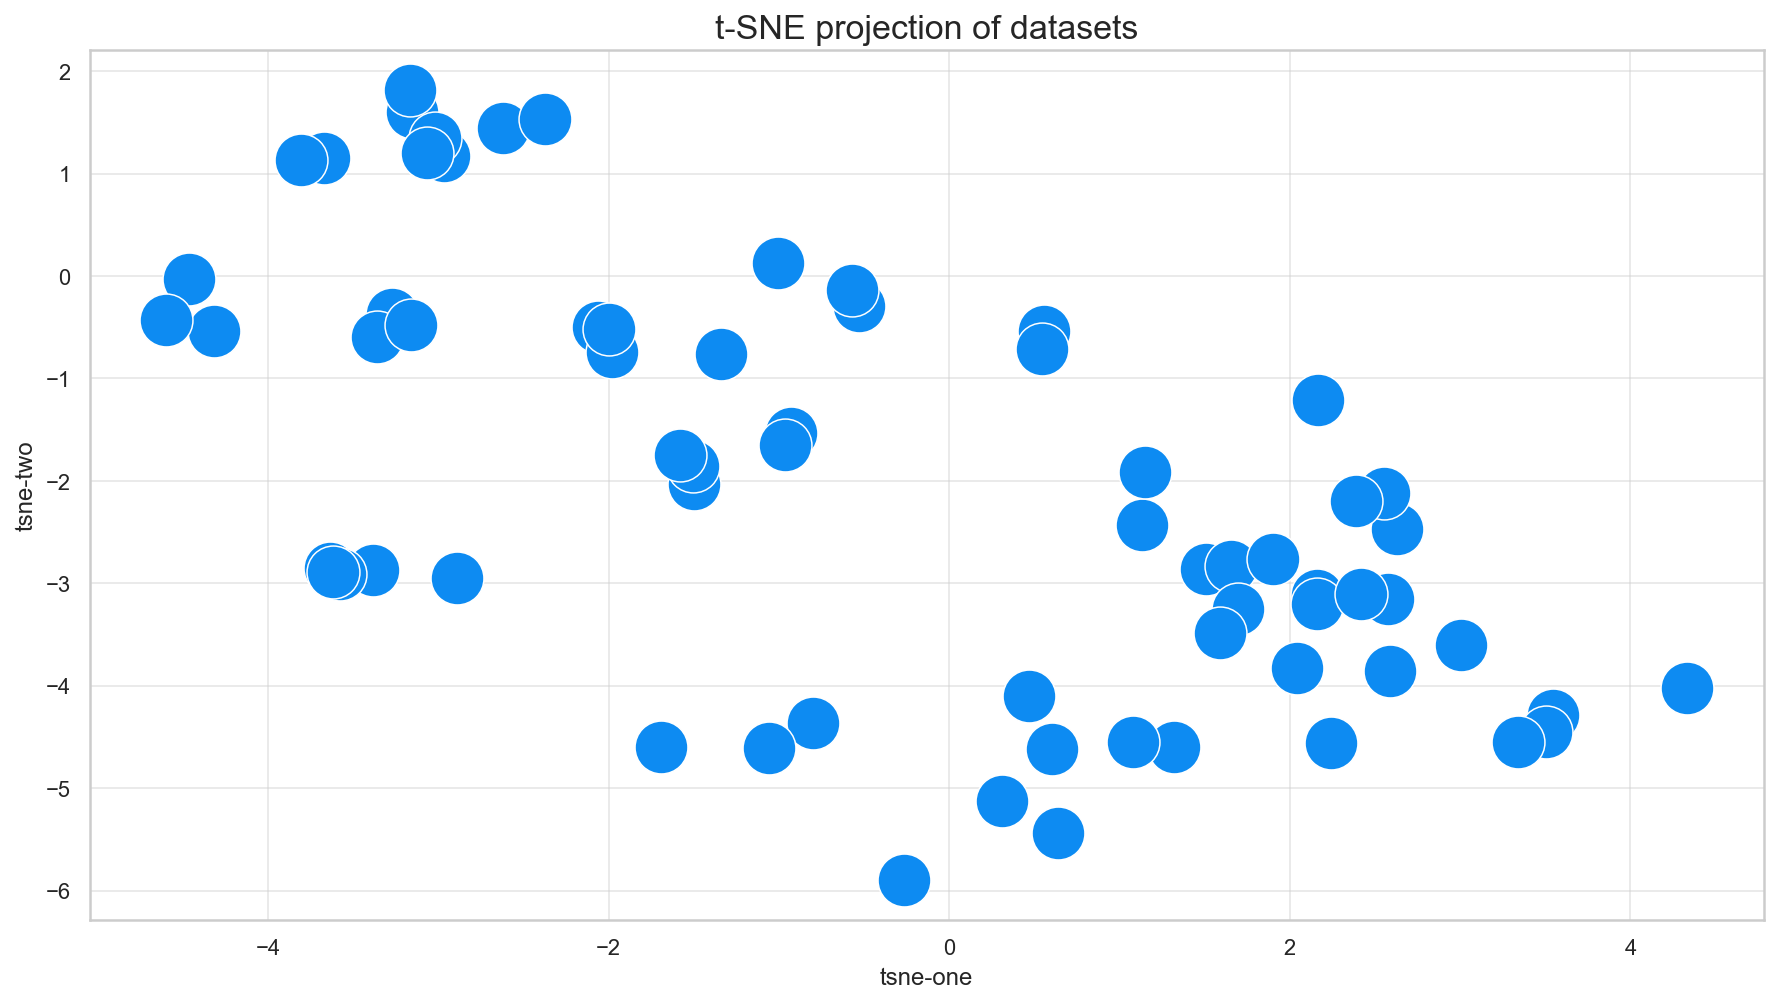
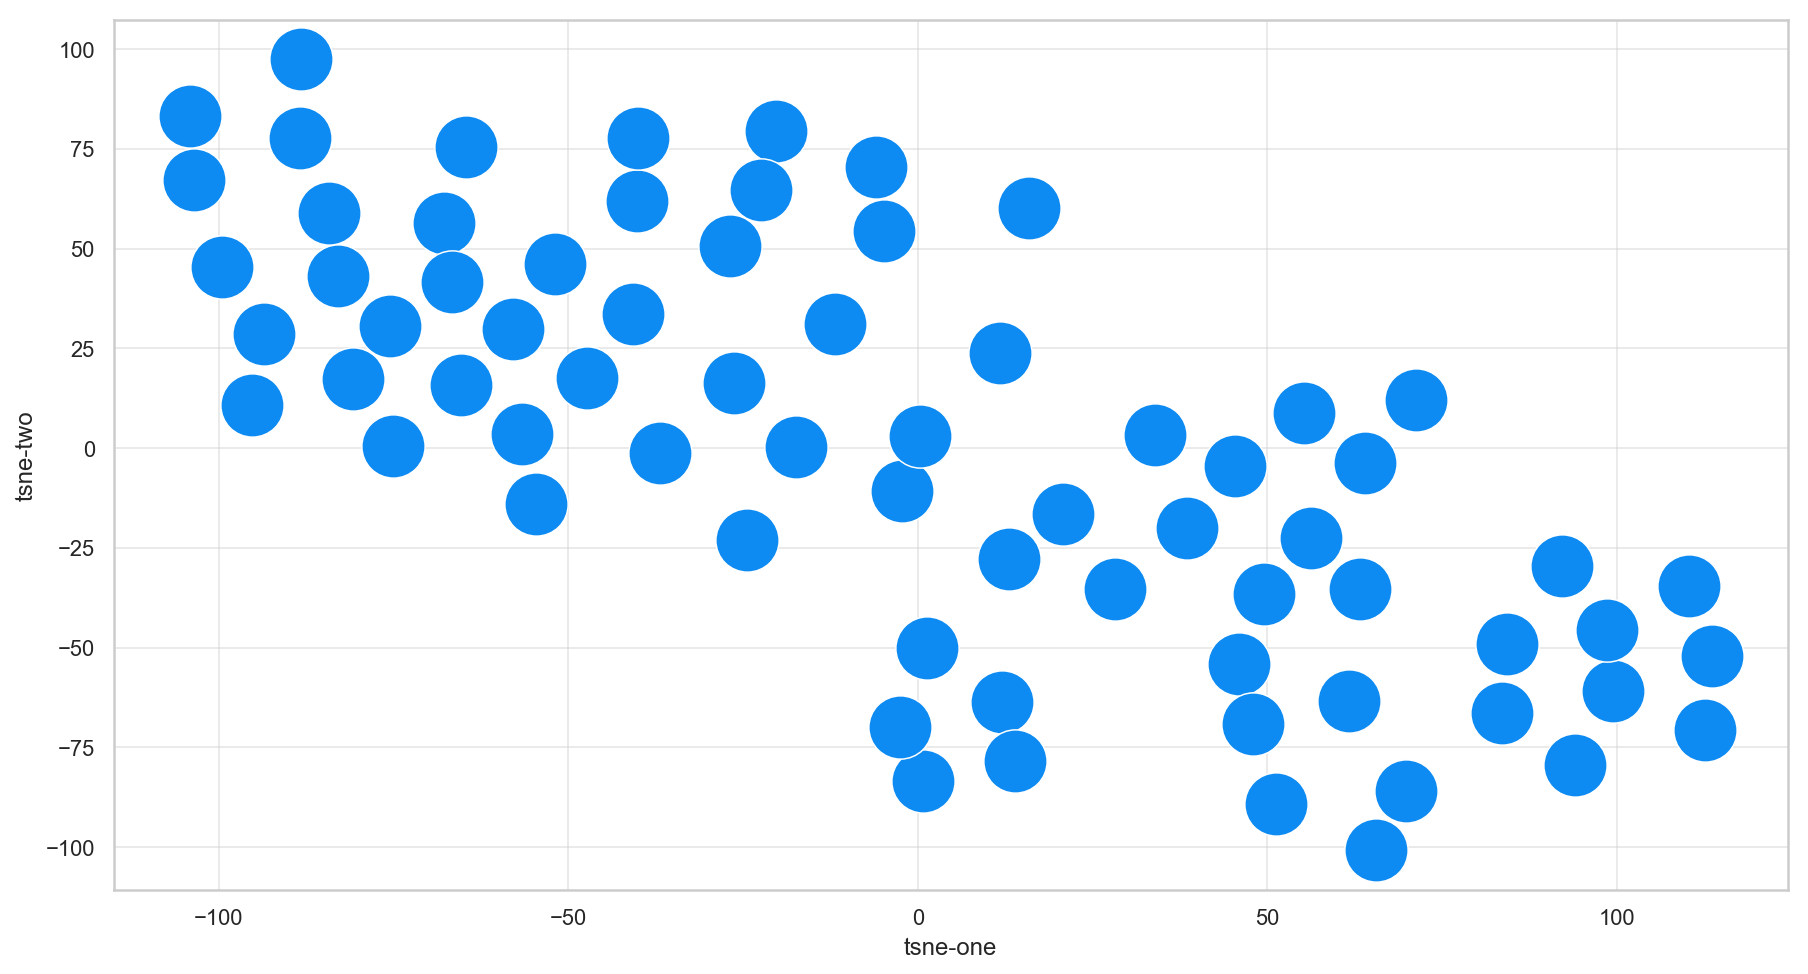
update thesis

diff --git a/cap-results.tex b/cap-results.tex
@@ -140,7 +140,6 @@ Since the granularity of the statistics are feature-wise, all datasets were subj
 
 After this transformation each dataset $D_i$ is now represented by a $\mathcal{P}_i \in \mathbb{R}^{10}$ where each component of the multidimensional point represents one of the aggregated characteristics calculated above. To visualize these multidimensional points, a t-SNE projection (dimensionality reduction technique, more details in \cite{maaten2008visualizing}) on two dimensions is shown in Figure \ref{fig:tsne-1}.
 
-\ref{} % TODo: update t-SNE projection
 \begin{figure}[!h]
     \centering
     \includegraphics[width=1\textwidth]{tsne1.png}
@@ -156,26 +155,63 @@ Finally, there's also explicit emphasis on characteristics regarding numeric and
 
 To analyze all experiments based on similar dataset characteristics, the decided approach was to perform a simple clustering technique, instead of manually selecting which datasets are similar by looking at the aggregated characteristics by hand. Using the aggregated characteristics explained on the last section, a clustering approach on the points $\mathcal{P}_i$ generates clusters based on those characteristics.
 
-The chosen clustering approach was hierarchical clustering, which creates clusters from the \textit{bottom-up}, i.e. the algorithm starts with each point considered as a single cluster. Using a distance metric and a linkage strategy, in each iteration the most similar pairs are combined into a new cluster, until there's only one cluster left with all the points (more details about the implementation in \cite{mullner2011modern}). The advantage of this approach is that it generates the complete tree structure of the clusters in a \textit{dendrogram}, making it easy to choose where to stop the clustering. Also, in this study the time complexity of the algorithm isn't a problem because the total number of points $\mathcal{P}_i$ is relatively small.
-
-In more technical terms, the clustering used \textit{euclidean distance} as the distance metric, and \textit{complete linkage} to compare pairs of clusters (shown in equation \ref{eq:complete-linkage}, where $\mathcal{X}$ and $\mathcal{Y}$ are two different clusters). All components of $\mathcal{P}_i$ were normalized before running the algorithm to avoid one component dominating in the clustering procedure. It's important to note that the linkage and distance metric chosen here can highly impact the subsequent analysis of the experiment results. The objective is not to create a generic analysis that could work with any possible dataset, but to actually measure the impact of hyperparameters into specific clusters which follow a similar distribution of the aggregated characteristics.
-
-
-\begin{equation}
-    \max\{\underbrace{d(x, y)}_{\text{Euclidean distance}}: x \in \mathcal{X}, y \in \mathcal{Y}\}
-    \label{eq:complete-linkage}
-\end{equation}
-
-\ref{} % TODo: change dendrogram
-The final dendrogram of the study is shown in Figure \ref{fig:dendrogram}. 
 \begin{figure}[!h]
     \centering
     \includegraphics[width=1\textwidth]{dendrogram.png}
-    \caption{Complete Dendrogram}
+    \caption{Dendrogram of the old clustering method}
     \label{fig:dendrogram}
 \end{figure}
 
-Using the dendrogram as base along with the t-SNE projection of the dataset's characteristics, the \textit{lifetime} cutoff was decided, generating \ref{addnumclustershere} distinct clusters. Besides manually visualizing the final assignment of the clusters after the cutoff (check Figure \ref{fig:cluster-cutoff}), the distribution of the characteristics on each cluster were analyzed to get a sense about how each cluster differ from each other. These distributions can be visualized using different ridgeline plot for each characteristic, e.g. in the distribution of \ref{add-metric-here}, shown in Figure \ref{fig:cluster-joyplot}, one can observe that \ref{add-observation-here}.
+After some initial experimentation, the chosen clustering approach was to use the well known K-means algorithm, with $k=6$ clusters. K-means is a very simple algorithm which reduces the data to \textit{centroids}, and resulted in reasonable clusters for this study. The other tested technique was to use agglomerative hierarchical clustering, and choose the number of clusters by analyzing the resulting dendrogram (the dendrogram for the hierarchical clustering is shown in Figure \ref{fig:dendrogram}). However, this technique generated an uneven number of datasets in each cluster, more than K-means, so the K-means was chosen. It's important to note that the algorithms and the number of clusters chosen here can highly impact the subsequent analysis of the experiment results. The objective is not to create a generic analysis that could work with any possible dataset, but to actually measure the impact of hyperparameters into specific clusters which follow a similar distribution of the aggregated characteristics.
+
+After the K-means procedure, the assigned clusters can be seen in the t-SNE projection in Figure \ref{fig:tsne-2}, where each color represents a different cluster. Even though the number of $\mathcal{P}_i$ in each cluster isn't uniform, the clustering assignment is more intuitive, albeit in reduced dimensionality. As an observation note, the two t-SNE projections (Figure \ref{fig:tsne-1} and  \ref{fig:tsne-2}) are different because the embeddings in low dimension change when new data is introduced. In this case, the centroids were also added to the dataset before using t-SNE.
+
+\begin{figure}[!h]
+    \centering
+    \includegraphics[width=1\textwidth]{tsne2.png}
+    \caption{t-SNE projection with the assigned clusters and the centroids}
+    \label{fig:tsne-2}
+\end{figure}
+
+To understand better the behavior and semantic of each dataset of clusters, manual analysis of the datasets in each one was performed. As an example, the datasets names of Cluster 2 and 3 are in Table \ref{table:1}. From a superficial analysis on the content of each dataset, one can see that most of the datasets in Cluster 2 have a high number of categorical features, while datasets in Cluster 3 are all synthetically augmented, i.e. Bayesian Network Generated (\textit{BNG}) and have a very high number of rows.
+
+\begin{table}[h!]
+    \centering
+    \begin{tabular}{||c c||} 
+     \hline
+     Cluster 2 & Cluster 3 \\ [0.5ex] 
+     \hline\hline
+     \textit{kr-vs-kp} & \textit{BNG(kr-vs-kp)} \\
+     \textit{splice} & \textit{BNG(labor,nominal,1000000)} \\
+     \textit{mfeat-pixel} & \textit{BNG(breast-cancer,nominal,1000000)} \\
+     \textit{PhishingWebsites} & \textit{BNG(mushroom)} \\
+     \textit{20\_newsgroups.drift} & \textit{BNG(colic.ORIG,nominal,1000000)} \\
+     \textit{Internet-Advertisements} & \textit{BNG(credit-a,nominal,1000000)} \\
+     & \textit{BNG(credit-g,nominal,1000000)} \\
+     & \textit{BNG(credit-g)} \\[1ex] 
+     \hline
+    \end{tabular}
+    \caption{Datasets from Cluster 2 and Cluster 3}
+    \label{table:1}
+\end{table}
+
+Using ridgeline plots is another way to understand the meaning of each cluster. By calculating the distribution of the aggregated characteristics over each cluster and plotting them in the same scale against each other, it's possible to evaluate if the clustering makes sense. In total there are $10$ ridgeline plots, one for each aggregated characteristic. Here two of them are shown: In Figure \ref{fig:joyplot-1} and Figure \ref{fig:joyplot-2} the ridgeline plots for \code{categorical\_ratio} and \code{mean\_skewness} can be seen. It's easy to see that Cluster 2 datasets have a very high categorical ratio with very little variance, i.e. almost all of the datasets in this cluster contains a high proportion of categorical features. Clusters 1 and 6 have the lowest proportion of categorical features amongst all Clusters. Another conclusion is that Cluster 6 contains more skewed features, as its distribution is skewed towards high \code{mean\_skewness} values.
+
+All the remaining ridgeline plots are available on the appendix \ref{}.
+
+\begin{figure}[!h]
+    \centering
+    \includegraphics[width=.7\textwidth, height=.7\textwidth]{joyplot1.png}
+    \caption{Ridgeline plot of \code{categorical\_ratio}. Clusters are represented by different colors}
+    \label{fig:joyplot-1}
+\end{figure}
+
+\begin{figure}[!h]
+    \centering
+    \includegraphics[width=.7\textwidth, height=.7\textwidth]{joyplot2.png}
+    \caption{Ridgeline plot of \code{mean\_skewness}. Clusters are represented by different colors}
+    \label{fig:joyplot-2}
+\end{figure}
 
 
 %% ------------------------------------------------------------------------- %%
@@ -197,12 +233,20 @@ LightGBM has a default set of values for its hyperparameters and the ones analyz
     \item MD = \{5\}
 \end{itemize}
 
-The baseline metrics are defined, for each dataset $D_i$, as the performance metrics (\textit{AUC, Logloss} and \textit{Brier Score}, more details in Section \ref{classification-metrics}) obtained on the test set using the LightGBM model trained with the parameters as close as possible to the default hyperparameter values above. The $\delta_{metric}$ is then just the difference between a given new metric and the baseline metric. It's interpretation depends on the performance metric being analized: in the case of AUC, a positive $\delta_{AUC}$ means a higher AUC than baseline (a better result), a negative one means a lower AUC than baseline (worse result), and $0$ an equal performance in terms of AUC.
+The baseline metrics are defined, for each dataset $D_i$, as the performance metrics (\textit{AUC, Logloss} and \textit{Brier Score}, more details in Section \ref{classification-metrics}) obtained on the test set using the LightGBM model trained with the parameters as close as possible to the default hyperparameter values above. The $\delta_{metric}$ is then just the difference between a given new metric and the baseline metric. It's interpretation depends on the performance metric being analyzed: in the case of AUC, a positive $\delta_{AUC}$ means a higher AUC than baseline (a better result), a negative one means a lower AUC than baseline (worse result), and $0$ an equal performance in terms of AUC. For both the Brier Score and Logloss the interpretation is the opposite, as in these metrics the lower the better.
+
+\begin{figure}[!h]
+    \centering
+    \includegraphics[width=.7\textwidth, height=.7\textwidth]{delta_auc1.png}
+    \caption{$\delta_{AUC}$ for Cluster 3, changing only \code{max\_depth}}
+    \label{fig:delta-auc1}
+\end{figure}
 
 
-\\\CONCERNS about this, and how multiple points for a given $h$, using a robust statistical test can give us more guarantee about the actual result; The study will capture mostly changes in the AUC, not if the models are already good
-thsi measure will capture the dataset sensitivity as well
+
+% \\\CONCERNS about this, and how multiple points for a given $h$, using a robust statistical test can give us more guarantee about the actual result; The study will capture mostly changes in the AUC, not if the models are already good
+% thsi measure will capture the dataset sensitivity as well
 
 
-\ref{plot of a single delta metric - AUC}
-\ref{plot of a single delta metric - Brier Score}
+% \ref{plot of a single delta metric - AUC}
+% \ref{plot of a single delta metric - Brier Score}

diff --git a/cap-study-methodology.tex b/cap-study-methodology.tex
@@ -50,7 +50,7 @@ OpenML provides a python API package for automatically retrieving datasets, task
 After all these filters, the number of valid datasets for the experiment would be close to 400 (figure \ref{fig:openml-eda1}), in theory. However, a lot of datasets could not be opened by the python API due to a variety of errors, mostly related to Attribute-Relation File Format (ARFF) in python. This brought the number of possible datasets to experiment close to $200$, but since each hyperparameter experiment takes a long time to run (favoring more hyperparameter space covered over the number of datasets, check \ref{subsec:hp-tree}), the final number of datasets analyzed in this study is 70.
 
 
-Each dataset retrieved by the OpenML API has a dataset id (\code{did}) related to it, along with very useful metadata related to it, as it can be seen in Figure \ref{fig:openml-eda3}. With a simple exploratory analysis of the datasets it was observed a great portion of biology related datasets, usually with high number of categorical variables. Datasets with only textual data as features were also removed from the study, along with features not explicitly indicated as a categorical feature by the API.
+Each dataset retrieved by the OpenML API has a dataset id (\code{did}) related to it, along with very useful metadata related to it, as it can be seen in Figure \ref{fig:openml-eda3}. With a simple exploratory analysis of the datasets it was observed a great number of datasets with high number of categorical variables, and usually high number of features too. Datasets with only textual data as features were also removed from the study, along with features not explicitly indicated as a categorical feature by the API.
 
 \begin{figure}[!h]
     \centering
